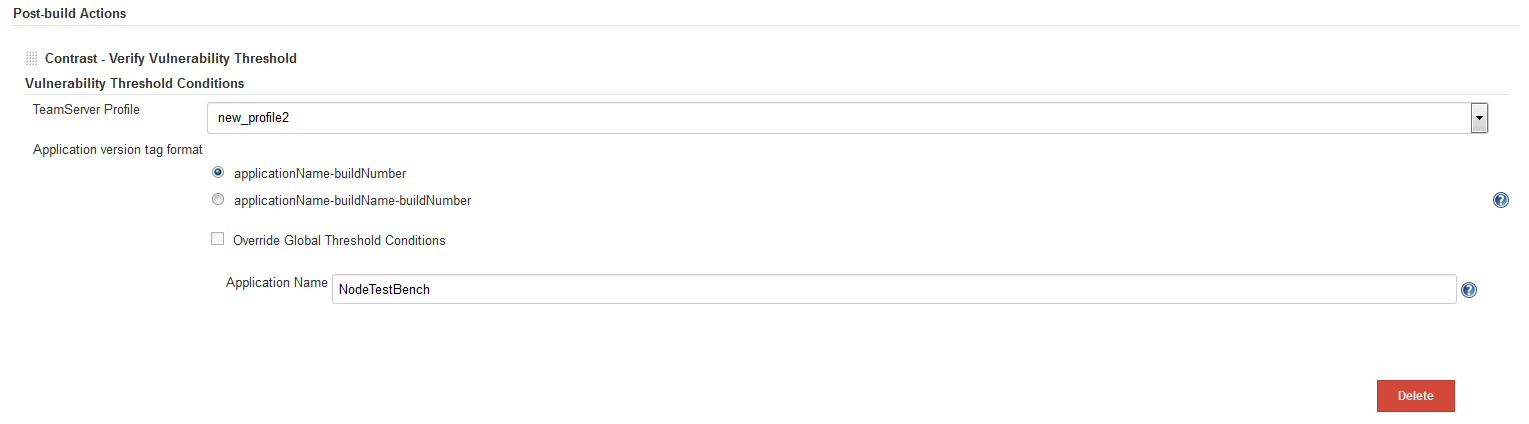
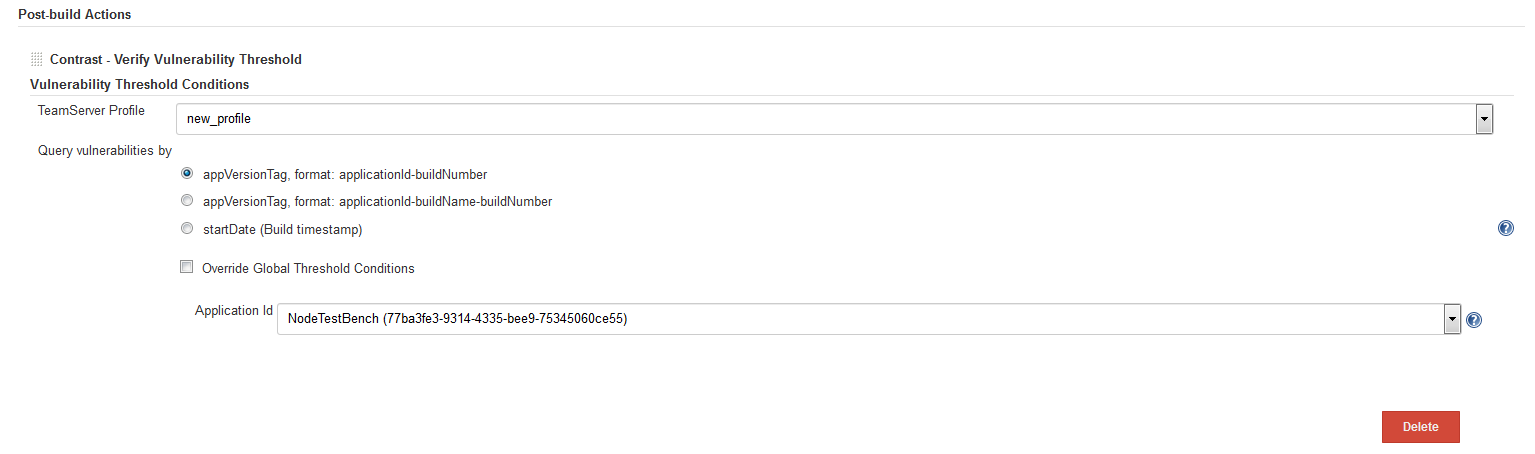
changes for the jenkins plugin 2.7

diff --git a/content/tools/plugins/JenkinsPlugin.md b/content/tools/plugins/JenkinsPlugin.md
@@ -51,9 +51,9 @@ You can add as many rules as you like. The plugin fails on the **first** bad con
 Complete the following fields for **Post-Build Actions**.
 
 * Select a **Profile** from the dropdown.
-* Select **Application version tag format**. By default, the plugin uses the first option: "applicationName-buildNumber". 
+* Select **Query vulnerabilities by**. By default, the plugin uses the first option: "appVersionTag, format: applicationId-buildNumber". 
 * If the profile is configured to allow the global threshold conditions to be overridden, you can choose to do so.
-* Enter the **Application Name**. The Jenkins job name is used by default for this field. This field is **required**.
+* Select the **Application Id** from the dropdown menu. This field is **required**.
 * If you chose to override the global threshold conditions, fill in the rest of the fields, including **Count**,
  **Severity**, **Vulnerability Type**, and **Vulnerability Statuses** similarly to the global threshold conditions described above.
 
@@ -64,16 +64,17 @@ Complete the following fields for **Post-Build Actions**.
 When you add a Pipeline step with the name `contrastVerification`, it follows the same principles as the post-build action but in a newer format for Jenkins 2.0 improvements. Pipeline configuration:
 
 ```
-contrastVerification profile: 'Localhost', applicationName: 'NodeTestBench', count: 10, rule: 'xss', severity: 'High', appVersionTagFormat: 1
+contrastVerification applicationId: '1e6ad9c6-89d4-4f06-bdf6-92c569ec89de', count: 1, profile: 'new-profile', queryBy: 3, rule: 'cache-controls-missing', severity: 'High'
 ```
 
 ## Test for Vulnerabilities
 
-For the Jenkins plugin to get accurate information, you must add a unique identifier built from the Jenkins CI configuration as an agent property. The corresponding property for the Java agent is `contrast.override.appversion`. Also, the job name must match your application name, or you must override your application name with another property, to ensure that Contrast tests for the correct information.
+For the Jenkins plugin to get accurate information, you must add a unique identifier built from the Jenkins CI configuration as an agent property. The corresponding property for the Java agent is `contrast.override.appversion`.
 
-The plugin uses the unique identifier `appVersionTag` to filter vulnerabilities and check conditions. You can change the format used by the plugin to create `appVersionTag` using `appVersionTagFormat` pipeline parameter. Two options are available: 
+The plugin can use either the unique identifier `appVersionTag` or the `startDate` to filter vulnerabilities and check conditions. You can change the format used by the plugin to create `appVersionTag` or set the plugin to use `startDate` using `queryBy` pipeline parameter. Three options are available: 
 
-* `applicationName-${BUILD_NUMBER}` (default)
-* `applicationName-${JOB_NAME}-${BUILD_NUMBER}`
+* appVersionTag, format: `applicationId-${BUILD_NUMBER}` (default)
+* appVersionTag, format: `applicationId-${JOB_NAME}-${BUILD_NUMBER}`
+* `startDate` (Build timestamp)
 
 Both `JOB_NAME` and `BUILD_NUMBER` are available as a Jenkins environment <a href="https://wiki.jenkins-ci.org/display/JENKINS/Building+a+software+project">properties</a>.
